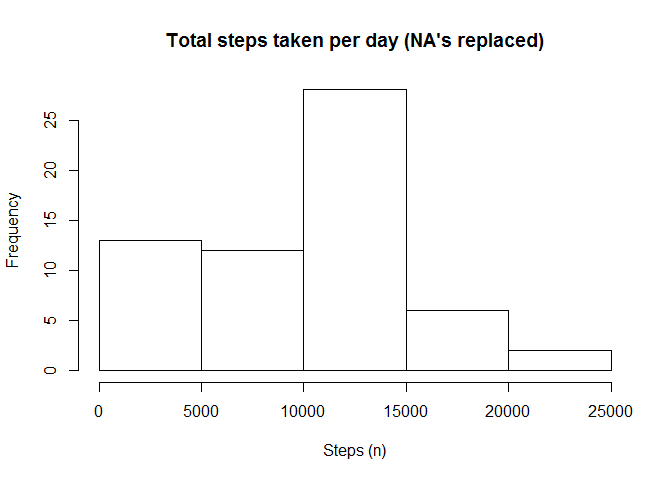
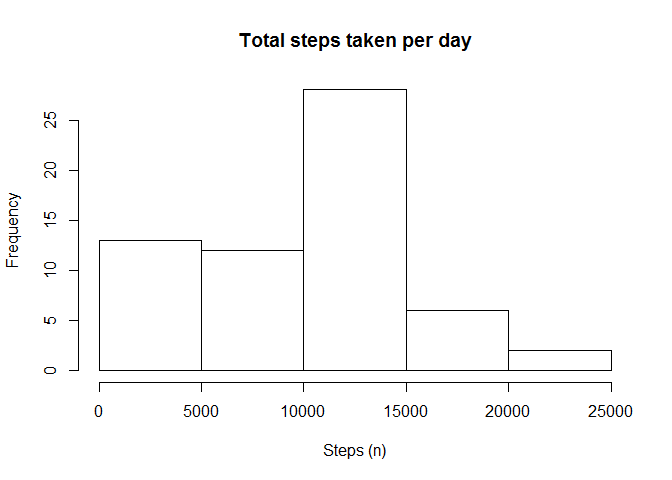
Fixed a small typo.

Changed region(s): [[0.25, 0.0625, 0.8125, 0.125]]

diff --git a/PA1_template.html b/PA1_template.html
@@ -104,8 +104,8 @@ for (i in 1:nrow(mydat)) {
 }
 # histogram of the number of steps taken each day
 hist(stepsByDay, xlab = &quot;Steps (n)&quot;
-     , main = &quot;Total steps taken per day (NA's replaced)&quot;)</code></pre>
[1 lines of base64/hex data omitted]
+     , main = &quot;Total steps taken per day&quot;)</code></pre>
[1 lines of base64/hex data omitted]
 <pre class="r"><code># take the mean
 meanStepsPerDay &lt;- mean(stepsByDay)
 # take the median

diff --git a/PA1_template.md b/PA1_template.md
@@ -46,7 +46,7 @@ for (i in 1:nrow(mydat)) {
 }
 # histogram of the number of steps taken each day
 hist(stepsByDay, xlab = "Steps (n)"
-     , main = "Total steps taken per day (NA's replaced)")
+     , main = "Total steps taken per day")
 ```
 
 ![](PA1_template_files/figure-html/unnamed-chunk-2-1.png) 
